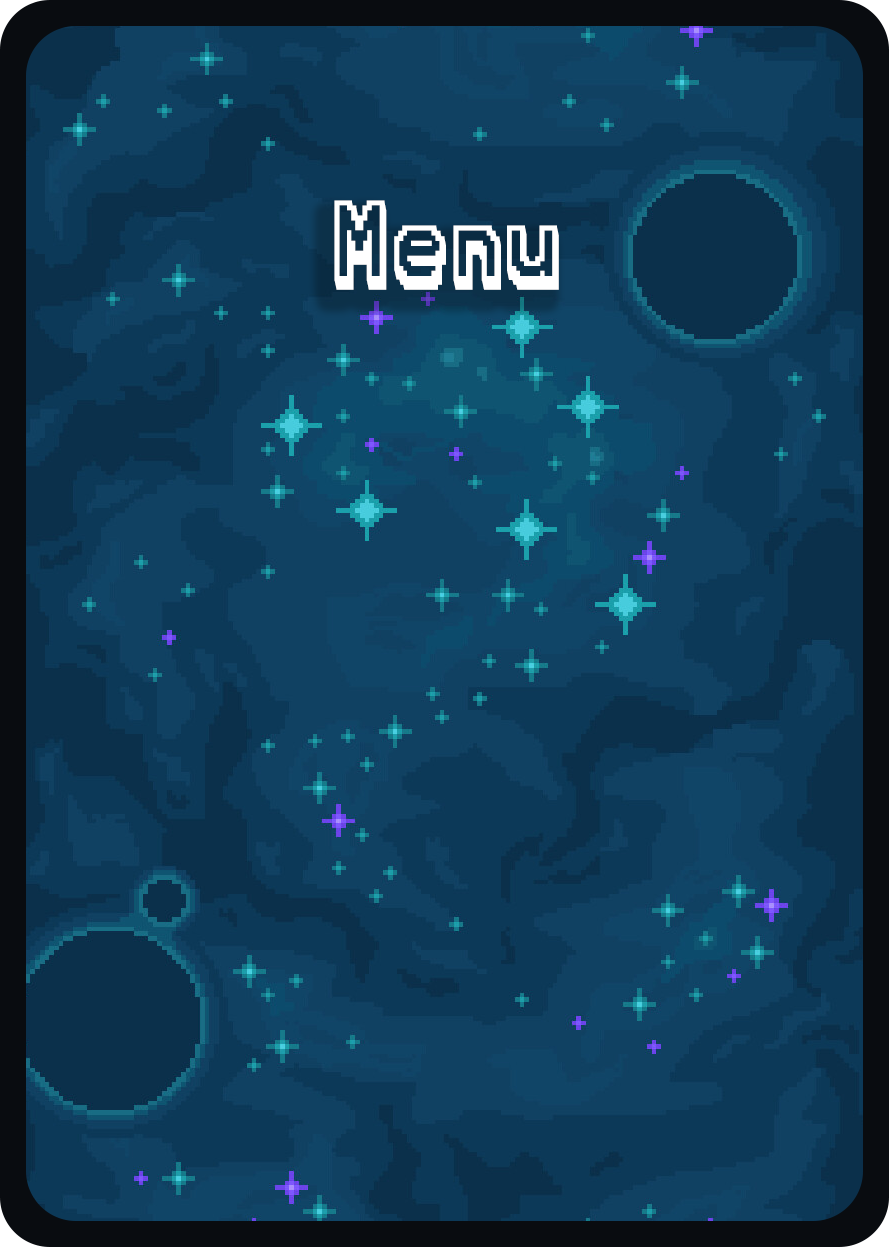
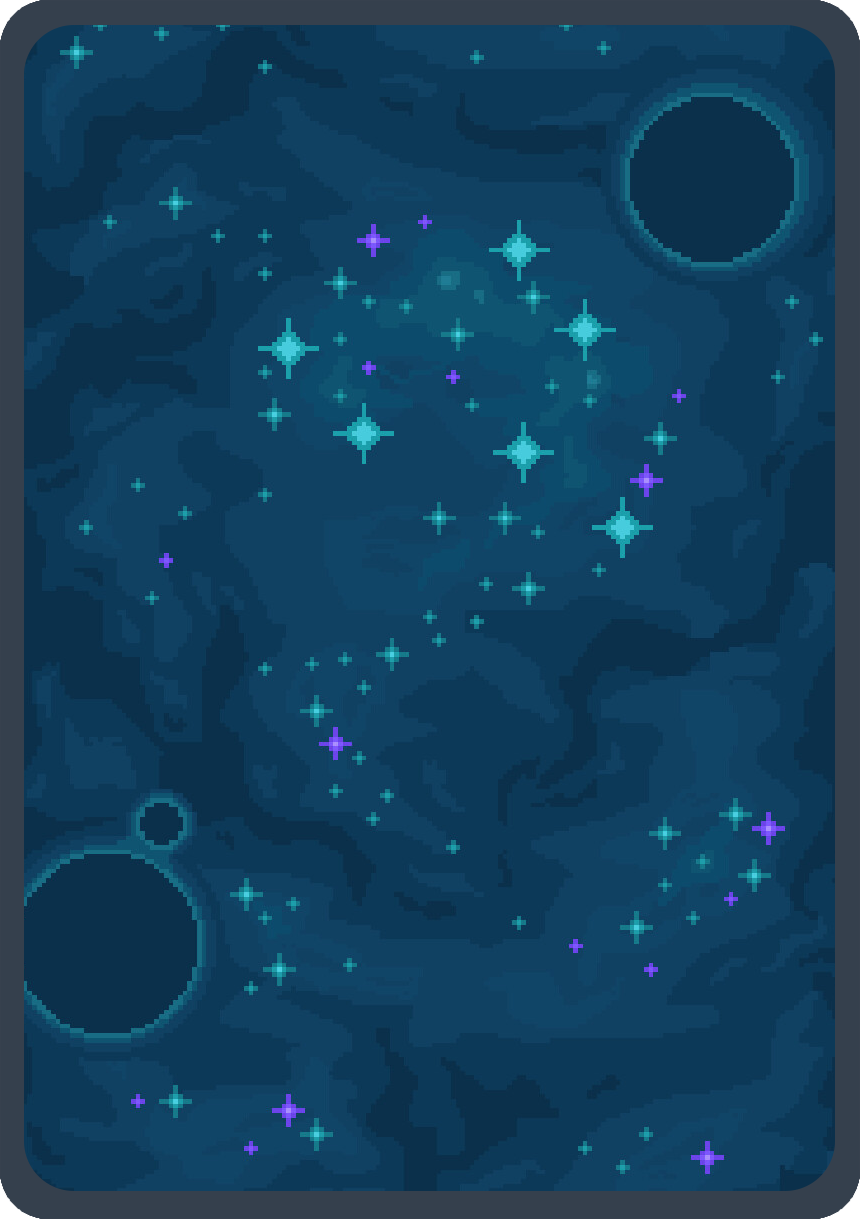
new menu images

diff --git a/main.py b/main.py
@@ -28,8 +28,11 @@ class Download:  # загрузка основных компонентов иг
         }
         self.interface = {
             'toolbar': [pygame.image.load(self.path+r'\img\interface\Toolbar\navigate'+str(i)+'.png').convert_alpha() for i in range(1, 6)],
-            'menu2': [pygame.image.load(self.path+r'\img\font\menu2.png').convert_alpha(), pygame.image.load(self.path+r'\img\font\font2.png').convert_alpha()],
-            'menu': [pygame.image.load(self.path+r'\img\font\menu.png').convert_alpha(), pygame.image.load(self.path+r'\img\font\font2.png').convert_alpha()],
+            'menu': [pygame.image.load(self.path+r'\img\font\menu2.png').convert_alpha(), pygame.image.load(self.path+r'\img\font\font3.png').convert_alpha()],
+            'labels': {
+                'menu': pygame.image.load(self.path+r'\img\font\Menu.png').convert_alpha(),
+                'died': pygame.image.load(self.path+r'\img\font\YouDied.png').convert_alpha()
+            },
             'buttons': {
                 'continue': pygame.image.load(self.path+r'\img\interface\Continue.png').convert_alpha(),
                 'exit': pygame.image.load(self.path+r'\img\interface\Quite.png').convert_alpha(),
@@ -41,16 +44,13 @@ class Download:  # загрузка основных компонентов иг
         self.font = pygame.image.load(
             self.path+r'\img\font\space2.png').convert_alpha()
 
-    def change_images_size(self):
-        self.interface['menu2'][0] = Scale()._image(self.interface['menu2'][0],
-                                                    (self._display_size[0]*0.68)/self.interface['menu2'][0].get_width())
-
 
 class AbstractMenu(pygame.sprite.Sprite):
     def __init__(self, menu_images, display_size):
-        scale = (display_size[0]*0.68)/menu_images[0].get_width()
-        self.menu_image = Scale()._image(menu_images[0], scale)
-        self.blur_font = menu_images[1]
+        scale = (display_size[0]*0.68)/menu_images['menu'][0].get_width()
+        self.menu_image = Scale()._image(menu_images['menu'][0], scale)
+        self.blur_font = menu_images['menu'][1]
+        self.label = None
         self.buttons_list = []
 
         self.rect = self.menu_image.get_rect(
@@ -86,40 +86,48 @@ class AbstractMenu(pygame.sprite.Sprite):
 
         display.blit(self.score_text, (self.rect.centerx*0.5,
                                        self.rect.top+self.font_size))
+        display.blit(self.label, (self.rect.centerx -
+                                  self.label.get_width()//2, self.rect.top+self.rect.height*0.2))
 
 
 class PauseMenu(AbstractMenu):
-    def __init__(self, menu_images, button_images, display_size, **func):
+    def __init__(self, menu_images, display_size, **func):
         super().__init__(menu_images, display_size)
 
         self.buttons_list = [
-            Button(button_images['continue'],
+            Button(menu_images['buttons']['continue'],
                    (self.rect.centerx, self.rect.centery*.87), func['continue_']),
 
-            Button(button_images['settings'],
+            Button(menu_images['buttons']['settings'],
                    (self.rect.centerx, self.rect.centery*1.12), func['settings_']),
 
-            Button(button_images['restart'],
+            Button(menu_images['buttons']['restart'],
                    (self.rect.centerx, self.rect.centery*1.37), func['restart_']),
 
-            Button(button_images['exit'],
+            Button(menu_images['buttons']['exit'],
                    (self.rect.centerx, self.rect.centery*1.62), func['exit_']),
 
         ]
+        self.label = menu_images['labels']['menu']
 
 
 class DiedMune(AbstractMenu):
-    def __init__(self, menu_images, button_images, display_size, **func):
+    def __init__(self, menu_images, display_size, **func):
         super().__init__(menu_images, display_size)
 
         self.buttons_list = [
-            Button(button_images['restart'],
+            Button(menu_images['buttons']['restart'],
                    self.rect.center, func['restart_']),
-            Button(button_images['settings'], (self.rect.centerx,
-                                               self.rect.centery+self.rect.height//5.5), func['settings_']),
-            Button(button_images['exit'], (self.rect.centerx,
-                                           self.rect.centery+self.rect.height//3), func['exit_'])
+            Button(menu_images['buttons']['settings'], (self.rect.centerx,
+                                                        self.rect.centery+self.rect.height//5.5), func['settings_']),
+            Button(menu_images['buttons']['exit'], (self.rect.centerx,
+                                                    self.rect.centery+self.rect.height//3), func['exit_'])
         ]
+        self.label = menu_images['labels']['died']
+
+
+class Inventary(AbstractMenu):
+    pass
 
 
 class Button(pygame.sprite.Sprite):
@@ -226,7 +234,6 @@ class Game(Download, FirstLevelCreator):
             display_width, display_height)
 
         super().__init__(self.display_size)
-        self.change_images_size()
 
         FirstLevelCreator.__init__(
             self, self.display_size, self.add_to_group, self.get_amount_objects)
@@ -255,9 +262,9 @@ class Game(Download, FirstLevelCreator):
 
         self.Toolbar = Toolbar(
             self.interface['toolbar'], self.AMO, int(self.display_width//2), 1220)
-        self.PauseMenu = PauseMenu(self.interface['menu2'], self.interface['buttons'], self.display_size,
+        self.PauseMenu = PauseMenu(self.interface, self.display_size,
                                    exit_=self.exit_game, continue_=self.show_menu, settings_=self.settings, restart_=self.restart)
-        self.DiedMenu = DiedMune(self.interface['menu2'], self.interface['buttons'], self.display_size,
+        self.DiedMenu = DiedMune(self.interface,  self.display_size,
                                  restart_=self.restart, settings_=self.settings, exit_=self.exit_game)
 
         pygame.time.set_timer(pygame.USEREVENT, 1000)
@@ -358,6 +365,9 @@ class Game(Download, FirstLevelCreator):
 
         if not key[pygame.K_d] and not key[pygame.K_a]:
             self.player.acting_images = self.player.images['default']
+
+        if key[pygame.K_q]:
+            self.player.changeSkinPack('red')
 
 
 # -------------------------------------------ИГРОВЫЕ МЕХАННИКИ-----------------------------------------------

diff --git a/Player.py b/Player.py
@@ -23,7 +23,8 @@ class Mana:
         display.blit(self.image, self.rect)
 
         for i in self.circleValues[:int(self.AMOUNT*self.step)]:
-            pygame.draw.circle(display, (0, 180, 255), (i, self.rect.centery), self.rect.height//2-self.padding//3)
+            pygame.draw.circle(
+                display, (0, 180, 255), (i, self.rect.centery), self.rect.height//2-self.padding//3)
 
     def toSpend(self, value):
         if self.AMOUNT - value >= 0:
@@ -119,18 +120,20 @@ class Player(pygame.sprite.Sprite,  HeartsGroup, Mana):
 
         path = os.getcwd()
         self.skins = {
-            'red' : {
-                'left_move' : [pygame.image.load(path+r'\img\spaceship\purpleship\left'+str(i)+'.png') for i in range(1, 3)],
-                'right_move' : [pygame.image.load(path+r'\img\spaceship\purpleship\right'+str(i)+'.png') for i in range(1, 3)],
-                'default' : [pygame.image.load(path+r'\img\spaceship\purpleship\space'+str(i)+'.png') for i in range(1, 3)]
+            'purple': {
+                'left_move': [pygame.image.load(path+r'\img\spaceship\purpleship\left'+str(i)+'.png') for i in range(1, 3)],
+                'right_move': [pygame.image.load(path+r'\img\spaceship\purpleship\right'+str(i)+'.png') for i in range(1, 3)],
+                'default': [pygame.image.load(path+r'\img\spaceship\purpleship\space'+str(i)+'.png') for i in range(1, 3)],
+                'color' : 'purple'
             },
-            'purple' : {
-                'left_move' : [pygame.image.load(path+r'\img\spaceship\redship\left'+str(i)+'.png') for i in range(1, 3)],
-                'right_move' : [pygame.image.load(path+r'\img\spaceship\redship\right'+str(i)+'.png') for i in range(1, 3)],
-                'default' : [pygame.image.load(path+r'\img\spaceship\redship\space'+str(i)+'.png') for i in range(1, 3)]
+            'red': {
+                'left_move': [pygame.image.load(path+r'\img\spaceship\redship\left'+str(i)+'.png') for i in range(1, 3)],
+                'right_move': [pygame.image.load(path+r'\img\spaceship\redship\right'+str(i)+'.png') for i in range(1, 3)],
+                'default': [pygame.image.load(path+r'\img\spaceship\redship\space'+str(i)+'.png') for i in range(1, 3)],
+                'color' : 'red'
             }
         }
-        self.images = self.skins['red']
+        self.images = self.skins['purple']
         self.acting_images = self.images['default']
 
         self.rect = pygame.Rect(
@@ -146,9 +149,9 @@ class Player(pygame.sprite.Sprite,  HeartsGroup, Mana):
         self.last_strike = 0
 
     def update(self, now, tick=80):
-        self.hitted_rects = [pygame.Rect(self.rect.centerx - 10, self.rect.top+15, 20, self.rect.bottom - self.rect.top-25),
-                             pygame.Rect(self.rect.left+10, self.rect.top +
-                                         65, self.rect.right - self.rect.left-22, 45)
+        self.hitted_rects = [pygame.Rect(self.rect.centerx - self.rect.width*.2//2, self.rect.top, self.rect.width*0.2, self.rect.bottom - self.rect.top-self.rect.height*0.1),
+                             pygame.Rect(self.rect.left, self.rect.top+self.rect.height*0.36,
+                                         self.rect.right - self.rect.left, self.rect.height*0.25)
                              ]
 
         self.flowAnimator.updateAnimation(
@@ -157,6 +160,8 @@ class Player(pygame.sprite.Sprite,  HeartsGroup, Mana):
     def draw(self, display):
         display.blit(self.acting_images[self.flowAnimator.getIteral],
                      (self.rect.x, self.rect.y))
+        for r in self.hitted_rects:
+            pygame.draw.rect(display, (255, 0, 0), r, 1)
 
     def Strike(self, now, object, image, func):
         if now - self.last_strike > object.cooldawn:
@@ -186,7 +191,5 @@ class Player(pygame.sprite.Sprite,  HeartsGroup, Mana):
 
     def changeSkinPack(self, pack_name):
         self.images = self.skins[pack_name]
-        self.rect = pygame.Rect(
-            self.x, self.y, self.images['default'][0].get_width(), self.images['default'][0].get_height())
-
-
+        self.rect = pygame.Rect(self.rect.x, self.rect.y, self.images['default'][0].get_width(), self.images['default'][0].get_height())
+        

diff --git a/levelCreator.py b/levelCreator.py
@@ -4,8 +4,6 @@ import os
 import random
 
 
-
-
 class AbstractSpawner:
     def __init__(self, images: list, display_size: list, add_function, get_amount):
         self.images = images
@@ -141,16 +139,16 @@ class FirstLevelCreator(AbstractLevelCreator, AsteroidSpawner, FirstEnemySpawner
             'default': [pygame.image.load(path+'\\img\\Enemy\\FirstEnemy\\1Enemy' + str(i)+'.png').convert_alpha() for i in range(1, 3)],
             'burst': [pygame.image.load(path+'\\img\\Enemy\\FirstEnemy\\burst\\1Enemy' + str(i)+'.png').convert_alpha() for i in range(1, 10)],
             'shell': {
-                'default': pygame.image.load(path+'\\img\\Enemy\\FirstEnemy\\Shell\\RedShell.png').convert_alpha(),
-                'burst': [pygame.image.load(path+'\\img\\Enemy\\FirstEnemy\\Shell\\RedShell'+str(i)+'.png').convert_alpha() for i in range(1, 4)]
+                'default': pygame.image.load(path+'\\img\\shells\\red\\redshell.png').convert_alpha(),
+                'burst': [pygame.image.load(path+'\\img\\shells\\red\\redshell'+str(i)+'.png').convert_alpha() for i in range(1, 5)]
             }
         }
         }
         drop = {
-            'health' : pygame.image.load(os.getcwd()+r'\img\interface\heart2.png').convert_alpha(),
-            'manapoint' : pygame.image.load(os.getcwd()+r'\img\spaceship\mana.png').convert_alpha()
+            'health': pygame.image.load(os.getcwd()+r'\img\interface\heart2.png').convert_alpha(),
+            'manapoint': pygame.image.load(os.getcwd()+r'\img\spaceship\mana.png').convert_alpha()
         }
-        
+
         enemy['asteroid']['drop'] = drop
         enemy['flightenemy']['drop'] = drop
 
